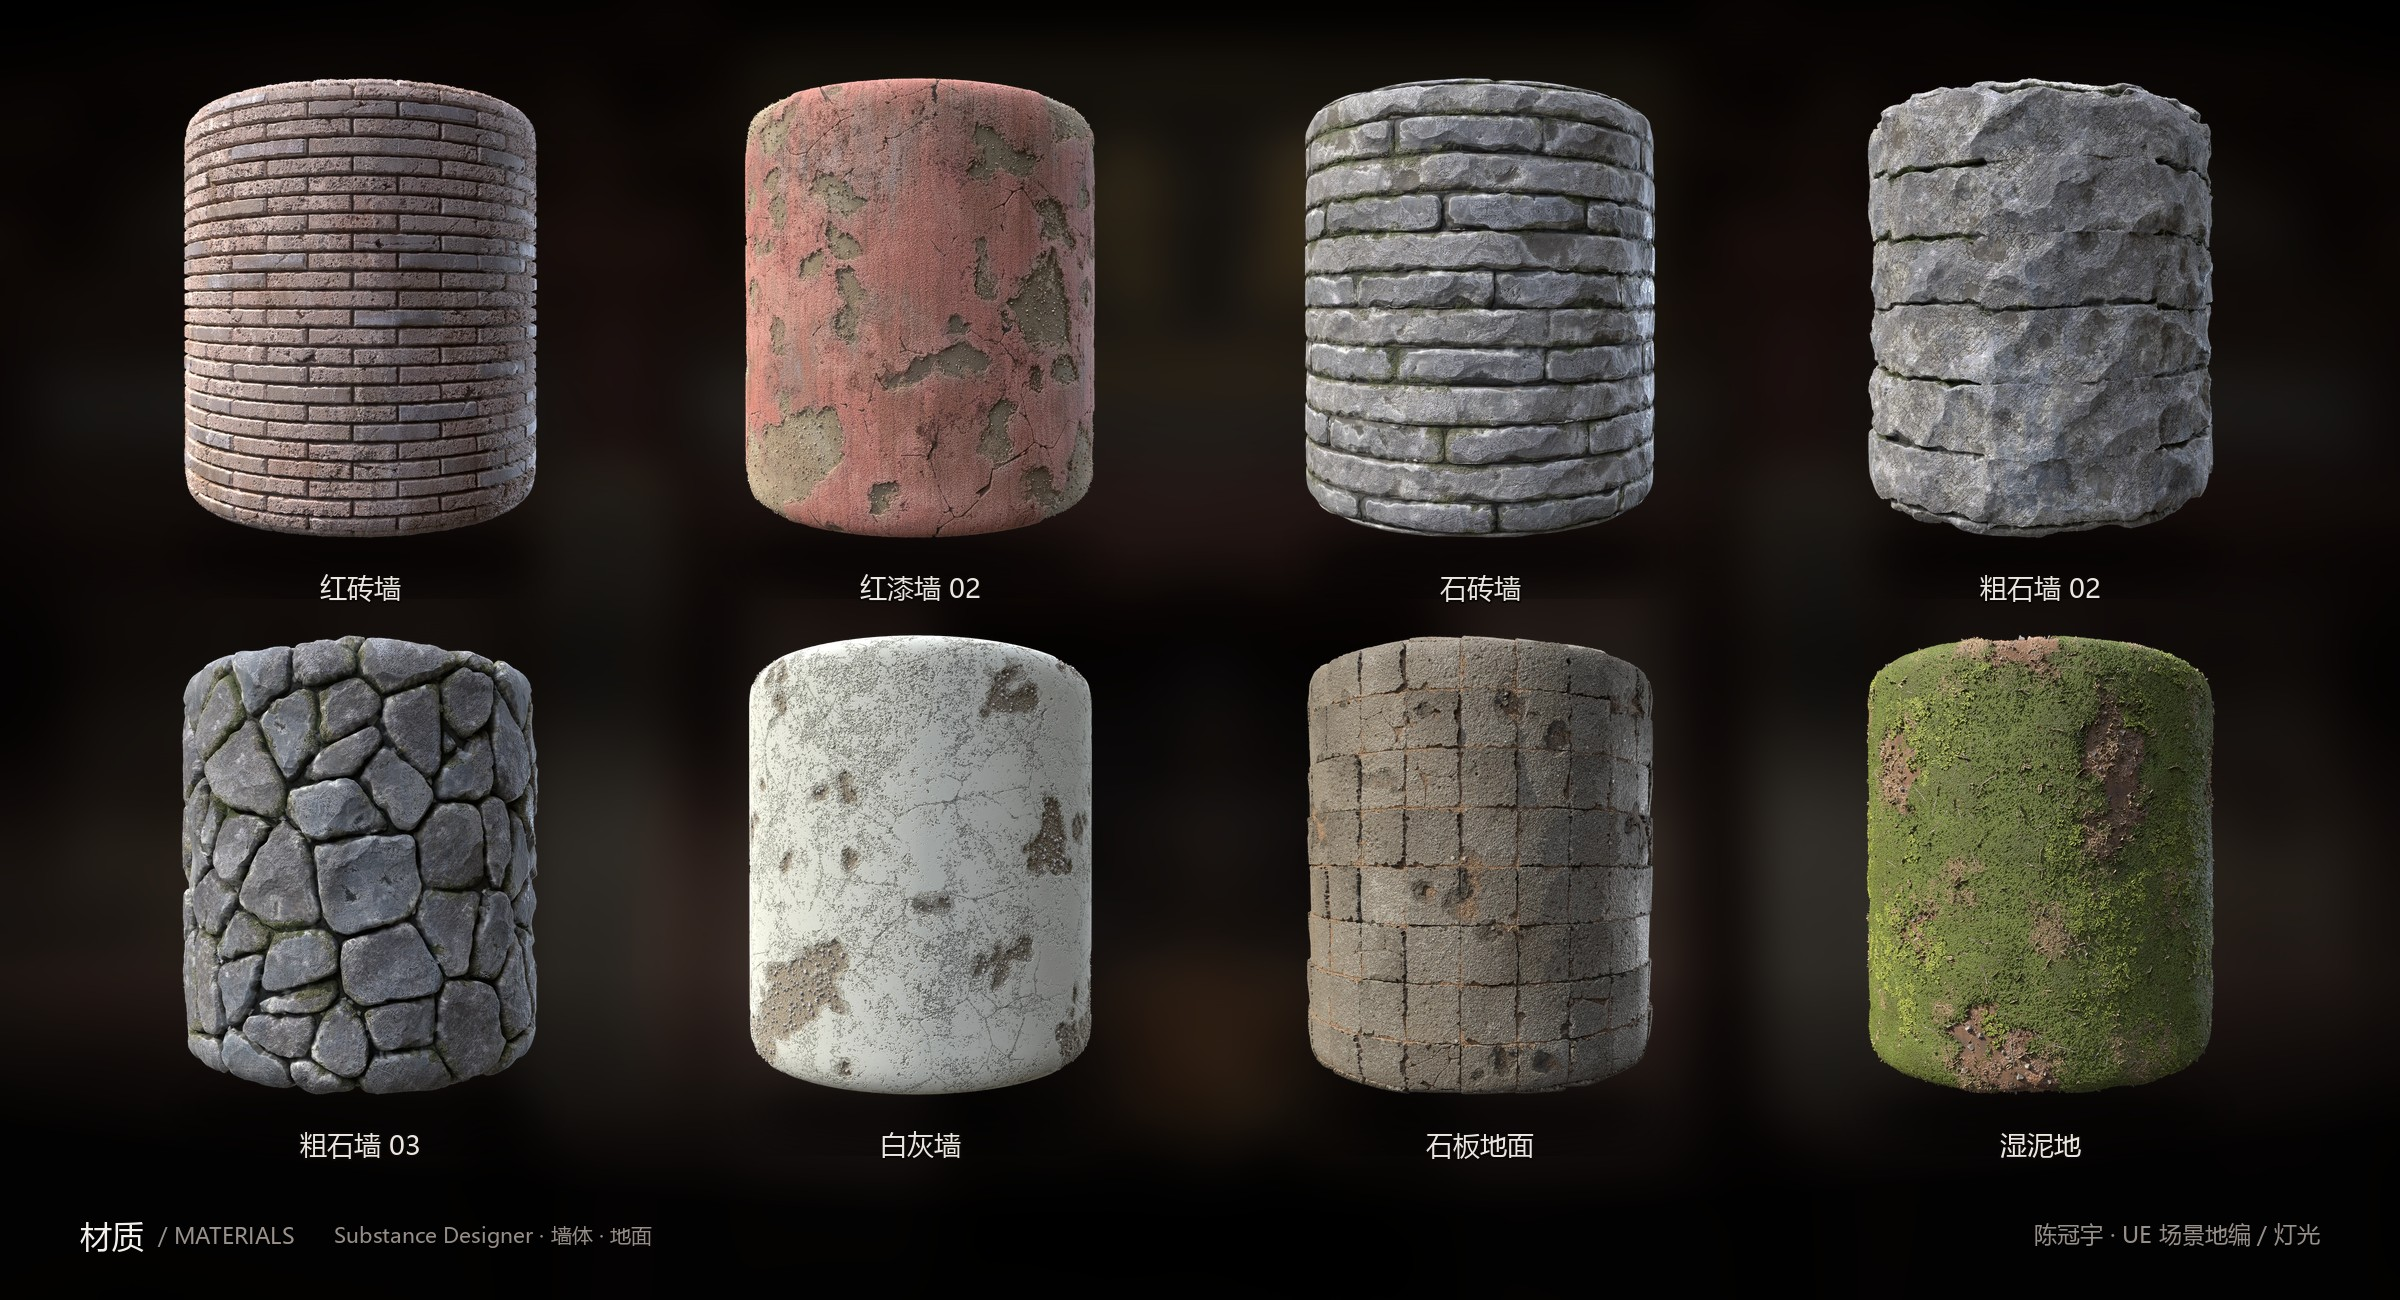
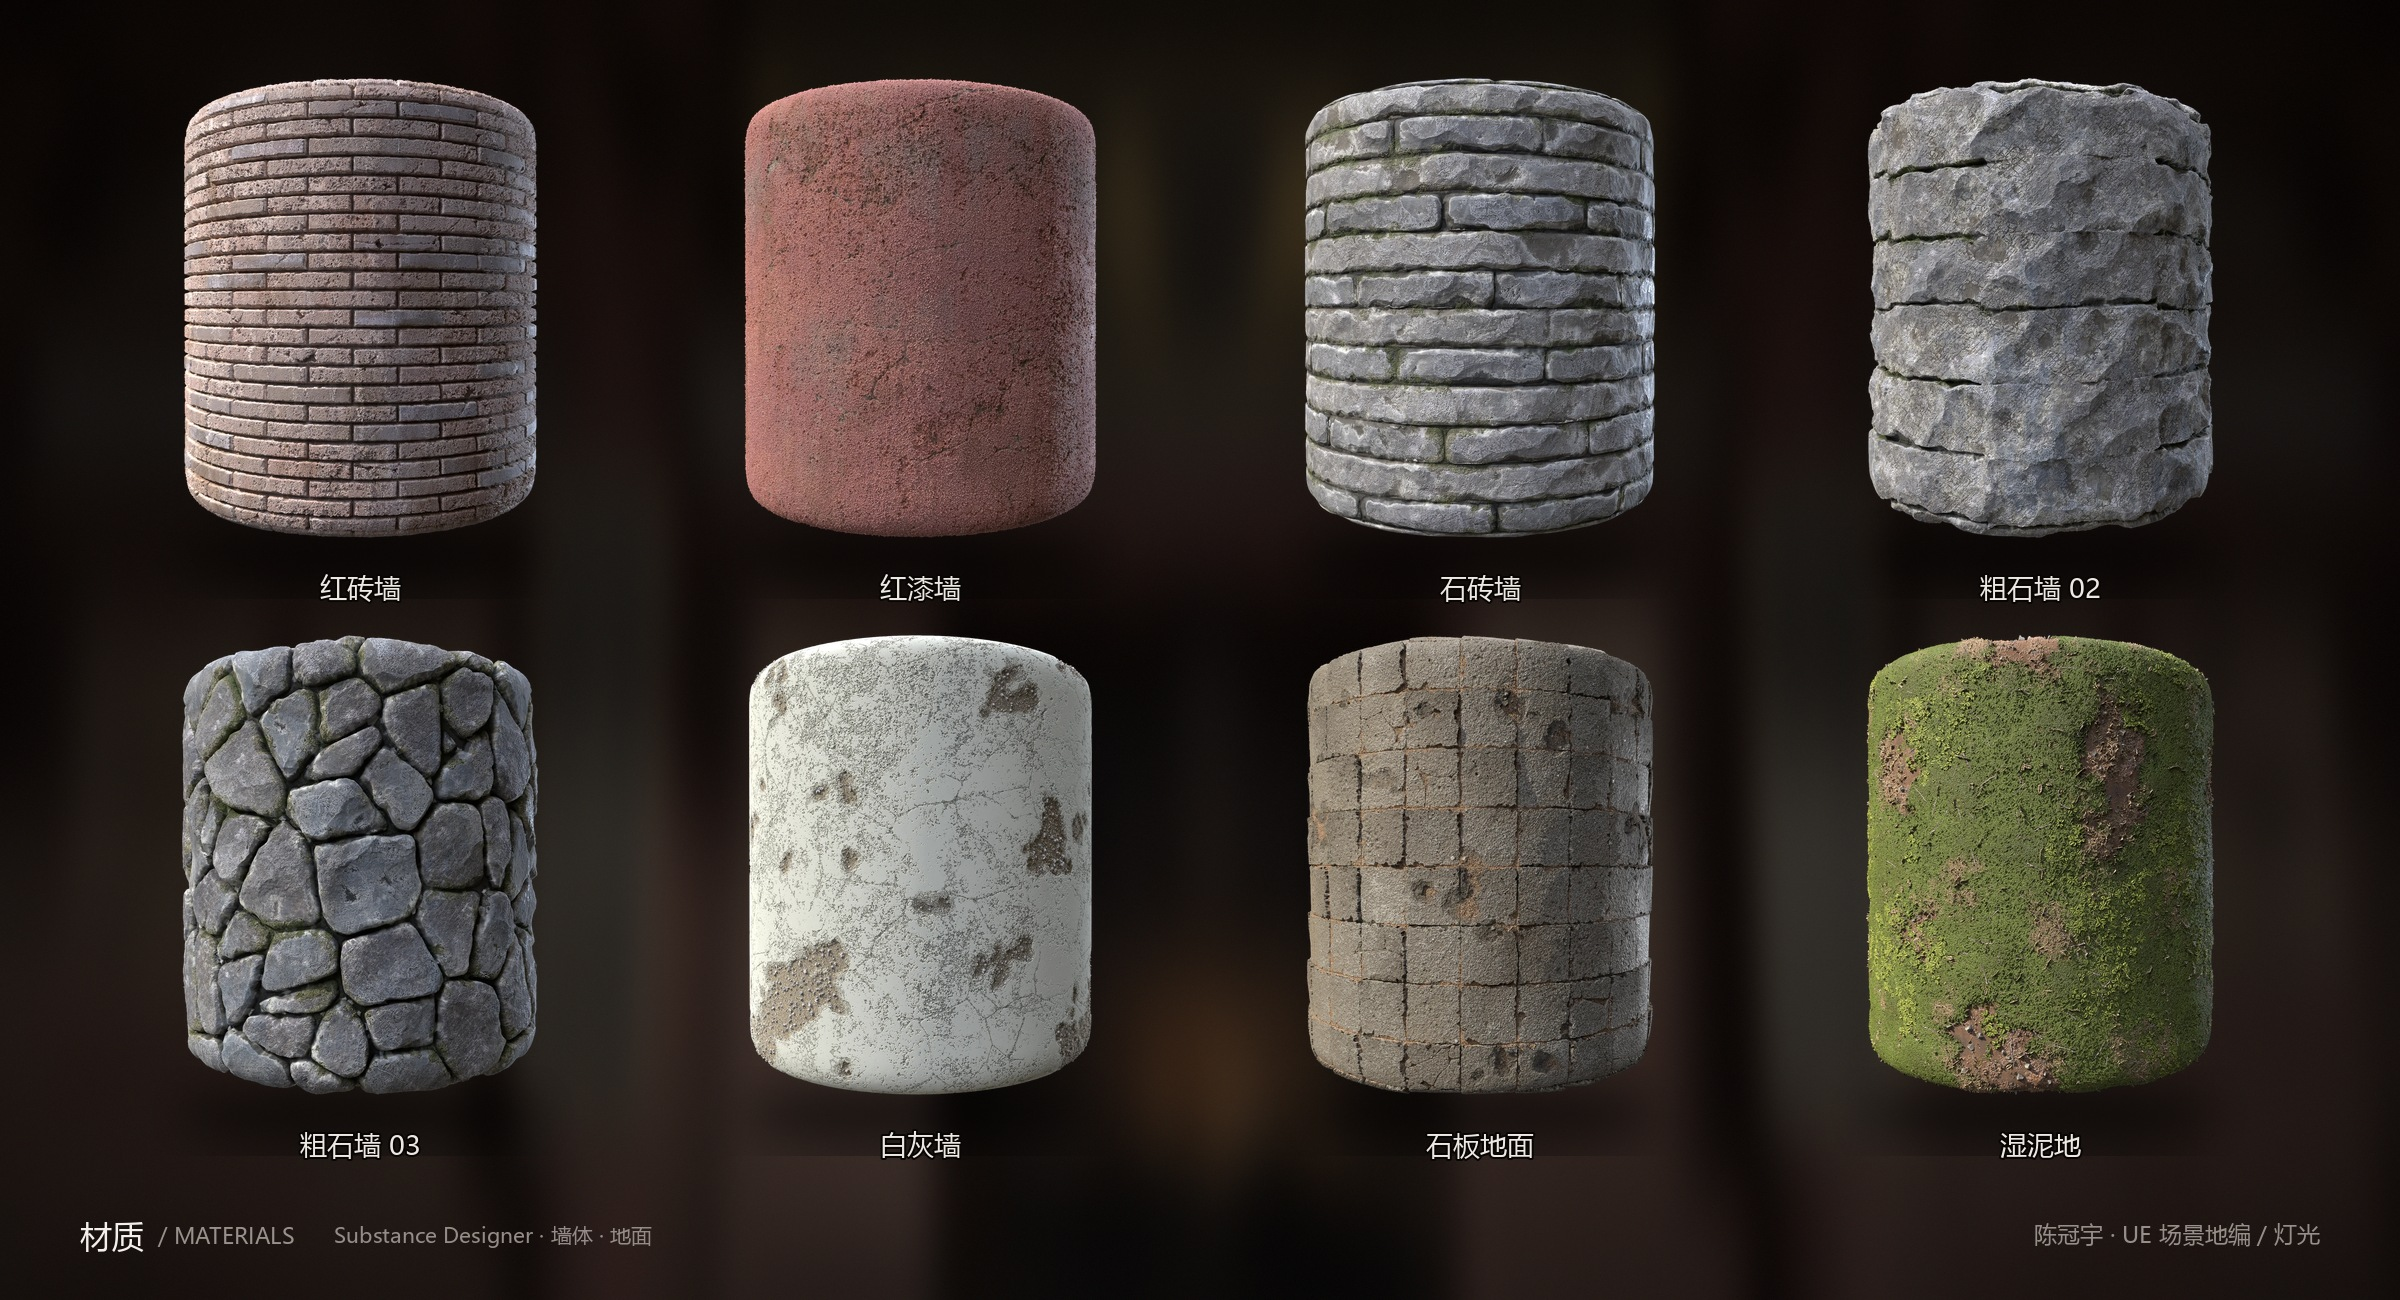
材质三张：精选换红漆墙02、窗格02改名窗纸、背景模糊26→17，异向模糊去掉截图里的直线接缝

diff --git a/resume/index.html b/resume/index.html
@@ -1281,9 +1281,8 @@ html[data-style="L"] .sidebar .s-block{ margin-bottom:20px !important; }
 .works-lite{ display:none; }
 html[data-style="L"]:not([data-works="off"]) .works-lite{ display:block; margin-top:10mm; }  /* 简历与作品区之间的间隔 */
 
-
-body{padding:0 !important; background:#fff !important; display:block !important;}
-.page{box-shadow:none !important; margin:0 auto !important;}
+body{padding:0 !important;background:#fff !important;display:block !important;}
+.page{box-shadow:none !important;margin:0 auto !important;}
 .page::after{display:none !important;}
 .toolbar,.add-btn,.del-btn,.drag-handle,.blk-tools,#warn,#saved,#buildtag,#tip,#toast,.tipbar{display:none !important;}
 </style>
@@ -1543,7 +1542,7 @@ body{padding:0 !important; background:#fff !important; display:block !important;
       <div class="ph-resp">Substance Designer 全节点搭建：砌筑石材、涂装、地面、植被、瓦作与木作，全部 4K 无缝输出，直接进引擎。统一以圆柱体测试，保证各材质在曲面上仍保持细节密度与尺度一致。</div></div>
     <div class="band matband" style="margin-top:0"><img src="../assets/mat8_1.jpg" alt="材质渲染 · 墙体与地面 8 组"></div>
     <div class="band matband"><img src="../assets/mat8_2.jpg" alt="材质渲染 · 自然瓦作构件 8 组"></div>
-    <div class="band matband"><img src="../assets/mat8_3.jpg" alt="材质渲染 · 精选四条：红漆墙 / 粗石墙 / 水面 / 瓦屋面 02"></div>
+    <div class="band matband"><img src="../assets/mat8_3.jpg" alt="材质渲染 · 精选四条：红漆墙 02 / 粗石墙 / 水面 / 瓦屋面 02"></div>
   </div>
 </div>
 

diff --git a/index.html b/index.html
@@ -271,7 +271,7 @@ footer::before{content:'';position:absolute;left:0;top:0;width:100%;height:3px;b
     <div class="stack auto nocap">
       <figure class="shot"><img src="assets/mat8_1.jpg" data-gallery="g4" data-i="7" loading="lazy" alt="材质渲染 · 墙体与地面 8 组"></figure>
       <figure class="shot"><img src="assets/mat8_2.jpg" data-gallery="g4" data-i="8" loading="lazy" alt="材质渲染 · 自然瓦作构件 8 组"></figure>
-      <figure class="shot"><img src="assets/mat8_3.jpg" data-gallery="g4" data-i="9" loading="lazy" alt="材质渲染 · 精选四条：红漆墙 / 粗石墙 / 水面 / 瓦屋面 02"></figure>
+      <figure class="shot"><img src="assets/mat8_3.jpg" data-gallery="g4" data-i="9" loading="lazy" alt="材质渲染 · 精选四条：红漆墙 02 / 粗石墙 / 水面 / 瓦屋面 02"></figure>
     </div>
   </article>
 
